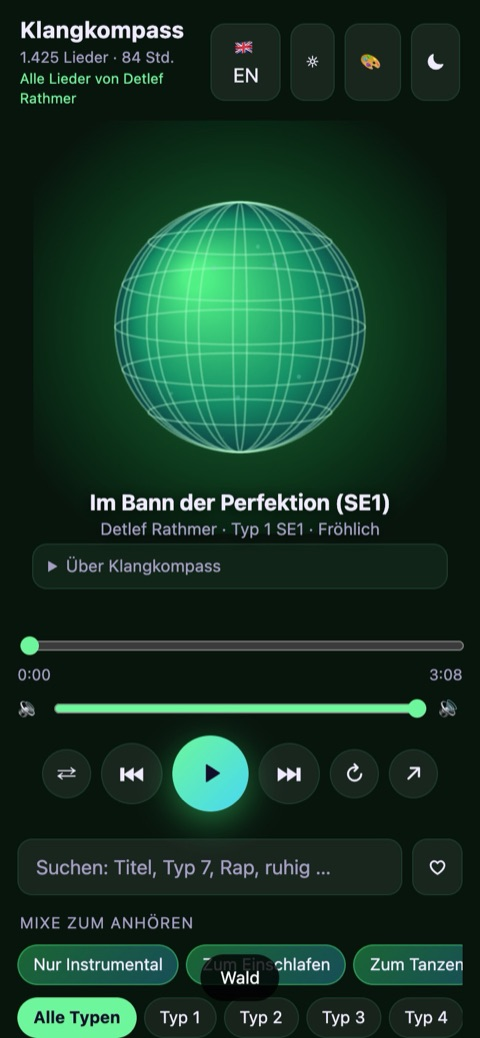
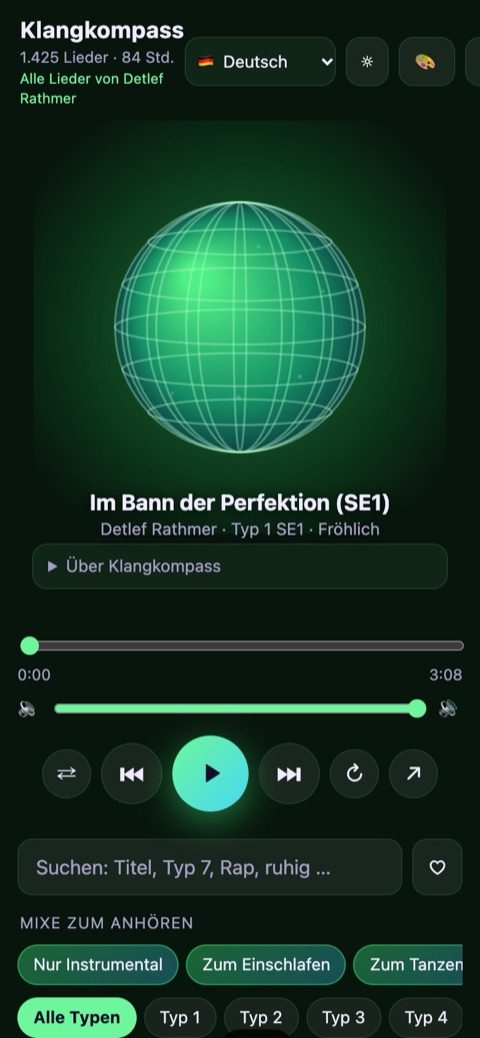
Klangkompass: App in elf Sprachen, neue Bilder

diff --git a/klangkompass-app.html b/klangkompass-app.html
@@ -4,9 +4,9 @@
   <meta charset="UTF-8">
   <meta name="viewport" content="width=device-width, initial-scale=1.0">
   <title>Klangkompass – die Musik-App | Verlagshaus Rathmer</title>
-  <meta name="description" content="Klangkompass: über 1.400 Lieder von Detlef Rathmer, geordnet nach Enneagrammtyp, Instinkt, Stimmung, Stil und Album. Jazz, Irisch, Bossa Nova, Spirituelles, Liebeslieder und mehr. Auf Deutsch und Englisch.">
+  <meta name="description" content="Klangkompass: über 1.400 Lieder von Detlef Rathmer, geordnet nach Enneagrammtyp, Instinkt, Stimmung, Stil und Album. Jazz, Irisch, Bossa Nova, Spirituelles, Liebeslieder und mehr. In elf Sprachen.">
   <meta property="og:title" content="Klangkompass – die Musik-App" />
-  <meta property="og:description" content="Klangkompass: über 1.400 Lieder von Detlef Rathmer, geordnet nach Enneagrammtyp, Instinkt, Stimmung, Stil und Album. Jazz, Irisch, Bossa Nova, Spirituelles, Liebeslieder und mehr. Auf Deutsch und Englisch." />
+  <meta property="og:description" content="Klangkompass: über 1.400 Lieder von Detlef Rathmer, geordnet nach Enneagrammtyp, Instinkt, Stimmung, Stil und Album. Jazz, Irisch, Bossa Nova, Spirituelles, Liebeslieder und mehr. In elf Sprachen." />
   <meta property="og:image" content="https://www.verlagshausrathmer.com/images/klangkompass-app/de-og.jpg" />
   <meta property="og:url" content="https://www.verlagshausrathmer.com/klangkompass-app.html" />
   <meta property="og:type" content="website" />
@@ -84,11 +84,11 @@
   <p class="ff-lead">Zu den Themen seines Lebenswerks äußert sich Detlef Rathmer seit zwei Jahrzehnten auch musikalisch, begleitend zu seiner therapeutischen Tätigkeit, seinen Büchern, Apps und Kalendern. Der Klangkompass bündelt diese Lieder: über 1.400 Stücke, die sich nach Typ, Stimmung, Stil und Album finden lassen. Dazu eine Kugel, die im Takt des Liedes pulsiert.</p>
   <p><span class="ff-soon">Bald verfügbar</span></p>
   <a class="ff-btn" href="ueber-den-autor.html">Mehr über den Autor</a>
-  <p class="ff-small">Die App erscheint demnächst, auf Deutsch und Englisch. Zum Kennenlernen gibt es Hörproben; für alle Lieder ist eine einmalige Zahlung von 9,99 € vorgesehen, ohne Abo. Den Starttermin geben wir hier bekannt.</p>
+  <p class="ff-small">Die App erscheint demnächst, in elf Sprachen. Zum Kennenlernen gibt es Hörproben; für alle Lieder ist eine einmalige Zahlung von 9,99 € vorgesehen, ohne Abo. Den Starttermin geben wir hier bekannt.</p>
 </section>
 <section class="ff-sec"><h2>Ein Blick in die App</h2><p class="ff-lead2">So sieht die App auf dem Handy aus.</p><div class="ff-shots" style="grid-template-columns:repeat(3,1fr)"><figure><img src="images/klangkompass-app/de-1.jpg" alt="Player mit Kugel" loading="lazy" width="480" height="1040"><figcaption>Die Kugel pulsiert im Takt des Liedes</figcaption></figure><figure><img src="images/klangkompass-app/de-2.jpg" alt="Filter" loading="lazy" width="480" height="1040"><figcaption>Mixe, Typen, Instinkte, Stimmungen und Stile</figcaption></figure><figure><img src="images/klangkompass-app/de-3.jpg" alt="Alben" loading="lazy" width="480" height="1040"><figcaption>Album für Album, nach Nummer geordnet</figcaption></figure><figure><img src="images/klangkompass-app/de-4.jpg" alt="Liebeslieder" loading="lazy" width="480" height="1040"><figcaption>Rubriken wie die Liebeslieder von Detlef</figcaption></figure><figure><img src="images/klangkompass-app/de-5.jpg" alt="Irische Lieder" loading="lazy" width="480" height="1040"><figcaption>Der Stil Irisch mit allen irischen Liedern</figcaption></figure><figure><img src="images/klangkompass-app/de-6.jpg" alt="Farbwahl" loading="lazy" width="480" height="1040"><figcaption>Sieben Farbwelten zur Wahl</figcaption></figure></div></section>
 <section class="ff-sec"><h2>Was die App bietet</h2><div class="ff-feats"><div class="ff-f"><b>Über 1.400 Lieder</b><p>Alle Lieder von Detlef Rathmer an einem Ort: Enneagramm, Jazz, Spirituelles, Liebeslieder, Humor und viele Stile.</p></div><div class="ff-f"><b>Nach Typ und Instinkt</b><p>Typ 1 bis 9, dazu die Instinkte SE, SO und SX. Jeder Typ hat seine Farbe. Lieder für den ganzen Typ stehen für sich.</p></div><div class="ff-f"><b>Nach Stimmung und Tempo</b><p>Ruhig, sanft, nachdenklich, fröhlich oder kraftvoll. Mixe wie „Zum Einschlafen“, „Zum Tanzen“ oder „Nur Instrumental“.</p></div><div class="ff-f"><b>Stile und Rubriken</b><p>Jazz, Irisch, Bossa Nova, Reggae, Klassik, Rap, Comedian-Harmonists-Stil und mehr. Rubriken wie „Liebeslieder von Detlef“ und „Spirituelle Songs“.</p></div><div class="ff-f"><b>Alben</b><p>Mehr als 50 Alben, nach Nummer geordnet, von den Genre-Alben über die Heilungsmusik bis zu den Jazz-Alben.</p></div><div class="ff-f"><b>Die Kugel</b><p>Weltkugel, Discokugel oder Wellen: Die Bilder pulsieren im Takt des Liedes. Sieben Farbwelten zur Wahl.</p></div><div class="ff-f"><b>Mit Gesang oder instrumental</b><p>Ein Filter trennt Lieder mit Gesang von reiner Musik, etwa zum Lesen, Arbeiten oder Einschlafen.</p></div><div class="ff-f"><b>Favoriten, Einschlafzeit, Teilen</b><p>Merken Sie sich Lieder, stellen Sie eine Einschlafzeit ein und teilen Sie ein Lied per Link.</p></div></div></section>
-<section class="ff-sec"><h2>Sprachen</h2><div class="ff-box">Die App gibt es auf Deutsch und Englisch. Die Lieder erklingen in elf Sprachen: <span style="font-size:1.5rem;letter-spacing:.2rem">🇬🇧 🇩🇪 🇫🇷 🇧🇷 🇷🇺 🇮🇳 🇨🇳 🇪🇸 🇮🇹 🇹🇷 🇺🇦</span><br>Englisch, Deutsch, Französisch, Portugiesisch (Brasilien), Russisch, Hindi, Chinesisch, Spanisch, Italienisch, Türkisch und Ukrainisch. Ein Filter in der App zeigt die Lieder je Sprache.</div></section>
+<section class="ff-sec"><h2>Sprachen</h2><div class="ff-box">Die App gibt es in elf Sprachen: Deutsch, Englisch, Französisch, Portugiesisch, Spanisch, Italienisch, Russisch, Türkisch, Hindi, Ukrainisch und Chinesisch. Die Lieder erklingen ebenfalls in elf Sprachen: <span style="font-size:1.5rem;letter-spacing:.2rem">🇬🇧 🇩🇪 🇫🇷 🇧🇷 🇷🇺 🇮🇳 🇨🇳 🇪🇸 🇮🇹 🇹🇷 🇺🇦</span><br>Die meisten sind auf Englisch und Deutsch, dazu kommen Lieder auf Französisch, Brasilianisch-Portugiesisch, Russisch, Hindi, Chinesisch, Spanisch, Italienisch, Türkisch und Ukrainisch. Ein Filter in der App zeigt die Lieder je Sprache.</div></section>
 <section class="ff-sec"><h2>Der Autor</h2><div class="ff-au"><div class="ff-box"><img src="images/fuehrung-app/detlef.jpg" alt="Detlef Rathmer" loading="lazy"><b>Detlef Rathmer</b><br>Sachbuchautor, Enneagramm-Experte, Dozent und Coach. Seit dem Jahr 2000 als Heilpraktiker tätig, mit dem Schwerpunkt klassische Homöopathie.<p style="margin:.6rem 0 0;clear:both"><a href="ueber-den-autor.html">Mehr über Detlef Rathmer</a></p></div></div></section>
 <p class="ff-hint">Hinweis: Die Musik dient der Entspannung und Besinnung. Sie ist keine Behandlung und kein Ersatz für ärztliche oder psychotherapeutische Hilfe.</p>
 </main>

diff --git a/sound-compass-app.html b/sound-compass-app.html
@@ -4,9 +4,9 @@
   <meta charset="UTF-8">
   <meta name="viewport" content="width=device-width, initial-scale=1.0">
   <title>Sound Compass – the music app | Verlagshaus Rathmer</title>
-  <meta name="description" content="Sound Compass: over 1,400 songs by Detlef Rathmer, sorted by Enneagram type, instinct, mood, style and album. Jazz, Irish, bossa nova, spiritual songs, love songs and more. In German and English.">
+  <meta name="description" content="Sound Compass: over 1,400 songs by Detlef Rathmer, sorted by Enneagram type, instinct, mood, style and album. Jazz, Irish, bossa nova, spiritual songs, love songs and more. In eleven languages.">
   <meta property="og:title" content="Sound Compass – the music app" />
-  <meta property="og:description" content="Sound Compass: over 1,400 songs by Detlef Rathmer, sorted by Enneagram type, instinct, mood, style and album. Jazz, Irish, bossa nova, spiritual songs, love songs and more. In German and English." />
+  <meta property="og:description" content="Sound Compass: over 1,400 songs by Detlef Rathmer, sorted by Enneagram type, instinct, mood, style and album. Jazz, Irish, bossa nova, spiritual songs, love songs and more. In eleven languages." />
   <meta property="og:image" content="https://www.verlagshausrathmer.com/images/klangkompass-app/en-og.jpg" />
   <meta property="og:url" content="https://www.verlagshausrathmer.com/sound-compass-app.html" />
   <meta property="og:type" content="website" />
@@ -84,11 +84,11 @@
   <p class="ff-lead">For two decades Detlef Rathmer has also expressed the themes of his life's work in music, alongside his therapeutic practice, his books, apps and calendars. Sound Compass brings these songs together: over 1,400 pieces you can find by type, mood, style and album. Plus a sphere that pulses with the beat of the song.</p>
   <p><span class="ff-soon">Coming soon</span></p>
   <a class="ff-btn" href="about-the-author.html">More about the author</a>
-  <p class="ff-small">The app is coming soon, in German and English. Samples let you get to know it; a one-time payment of €9.99 for all songs is planned, no subscription. We will announce the launch date here.</p>
+  <p class="ff-small">The app is coming soon, in eleven languages. Samples let you get to know it; a one-time payment of €9.99 for all songs is planned, no subscription. We will announce the launch date here.</p>
 </section>
 <section class="ff-sec"><h2>A look inside the app</h2><p class="ff-lead2">This is how the app looks on a phone.</p><div class="ff-shots" style="grid-template-columns:repeat(3,1fr)"><figure><img src="images/klangkompass-app/en-1.jpg" alt="Player with sphere" loading="lazy" width="480" height="1040"><figcaption>The sphere pulses with the beat of the song</figcaption></figure><figure><img src="images/klangkompass-app/en-2.jpg" alt="Filters" loading="lazy" width="480" height="1040"><figcaption>Mixes, types, instincts, moods and styles</figcaption></figure><figure><img src="images/klangkompass-app/en-3.jpg" alt="Albums" loading="lazy" width="480" height="1040"><figcaption>Album by album, ordered by number</figcaption></figure><figure><img src="images/klangkompass-app/en-4.jpg" alt="Love songs" loading="lazy" width="480" height="1040"><figcaption>Categories such as Detlef's love songs</figcaption></figure><figure><img src="images/klangkompass-app/en-5.jpg" alt="Irish songs" loading="lazy" width="480" height="1040"><figcaption>The style Irish with all Irish songs</figcaption></figure><figure><img src="images/klangkompass-app/en-6.jpg" alt="Colour choice" loading="lazy" width="480" height="1040"><figcaption>Seven colour themes to choose from</figcaption></figure></div></section>
 <section class="ff-sec"><h2>What the app offers</h2><div class="ff-feats"><div class="ff-f"><b>Over 1,400 songs</b><p>All songs by Detlef Rathmer in one place: Enneagram, jazz, spiritual songs, love songs, humour and many styles.</p></div><div class="ff-f"><b>By type and instinct</b><p>Type 1 to 9, plus the instincts SP, SO and SX. Every type has its colour. Songs for the whole type have their own place.</p></div><div class="ff-f"><b>By mood and tempo</b><p>Calm, gentle, thoughtful, cheerful or powerful. Mixes such as “To fall asleep”, “To dance” or “Instrumental only”.</p></div><div class="ff-f"><b>Styles and categories</b><p>Jazz, Irish, bossa nova, reggae, classical, rap, Comedian Harmonists style and more. Categories such as “Love songs by Detlef” and “Spiritual songs”.</p></div><div class="ff-f"><b>Albums</b><p>More than 50 albums, ordered by number, from the genre albums and healing music to the jazz albums.</p></div><div class="ff-f"><b>The sphere</b><p>Globe, disco ball or waves: the visuals pulse with the beat of the song. Seven colour themes to choose from.</p></div><div class="ff-f"><b>With vocals or instrumental</b><p>A filter separates songs with vocals from pure music, for reading, working or falling asleep.</p></div><div class="ff-f"><b>Favourites, sleep timer, sharing</b><p>Save songs, set a sleep timer and share a song by link.</p></div></div></section>
-<section class="ff-sec"><h2>Languages</h2><div class="ff-box">The app is available in German and English. The songs are sung in eleven languages: <span style="font-size:1.5rem;letter-spacing:.2rem">🇬🇧 🇩🇪 🇫🇷 🇧🇷 🇷🇺 🇮🇳 🇨🇳 🇪🇸 🇮🇹 🇹🇷 🇺🇦</span><br>English, German, French, Portuguese (Brazil), Russian, Hindi, Chinese, Spanish, Italian, Turkish and Ukrainian. A filter in the app shows the songs by language.</div></section>
+<section class="ff-sec"><h2>Languages</h2><div class="ff-box">The app is available in eleven languages: German, English, French, Portuguese, Spanish, Italian, Russian, Turkish, Hindi, Ukrainian and Chinese. The songs are sung in eleven languages as well: <span style="font-size:1.5rem;letter-spacing:.2rem">🇬🇧 🇩🇪 🇫🇷 🇧🇷 🇷🇺 🇮🇳 🇨🇳 🇪🇸 🇮🇹 🇹🇷 🇺🇦</span><br>Most are in English and German, plus songs in French, Brazilian Portuguese, Russian, Hindi, Chinese, Spanish, Italian, Turkish and Ukrainian. A filter in the app shows the songs by language.</div></section>
 <section class="ff-sec"><h2>The author</h2><div class="ff-au"><div class="ff-box"><img src="images/fuehrung-app/detlef.jpg" alt="Detlef Rathmer" loading="lazy"><b>Detlef Rathmer</b><br>Non-fiction author, Enneagram expert, lecturer and coach. A naturopath since 2000, with a focus on classical homeopathy.<p style="margin:.6rem 0 0;clear:both"><a href="ueber-den-autor.html">More about Detlef Rathmer</a></p></div></div></section>
 <p class="ff-hint">Note: The music is meant for relaxation and reflection. It is not a treatment and no substitute for medical or psychotherapeutic help.</p>
 </main>
